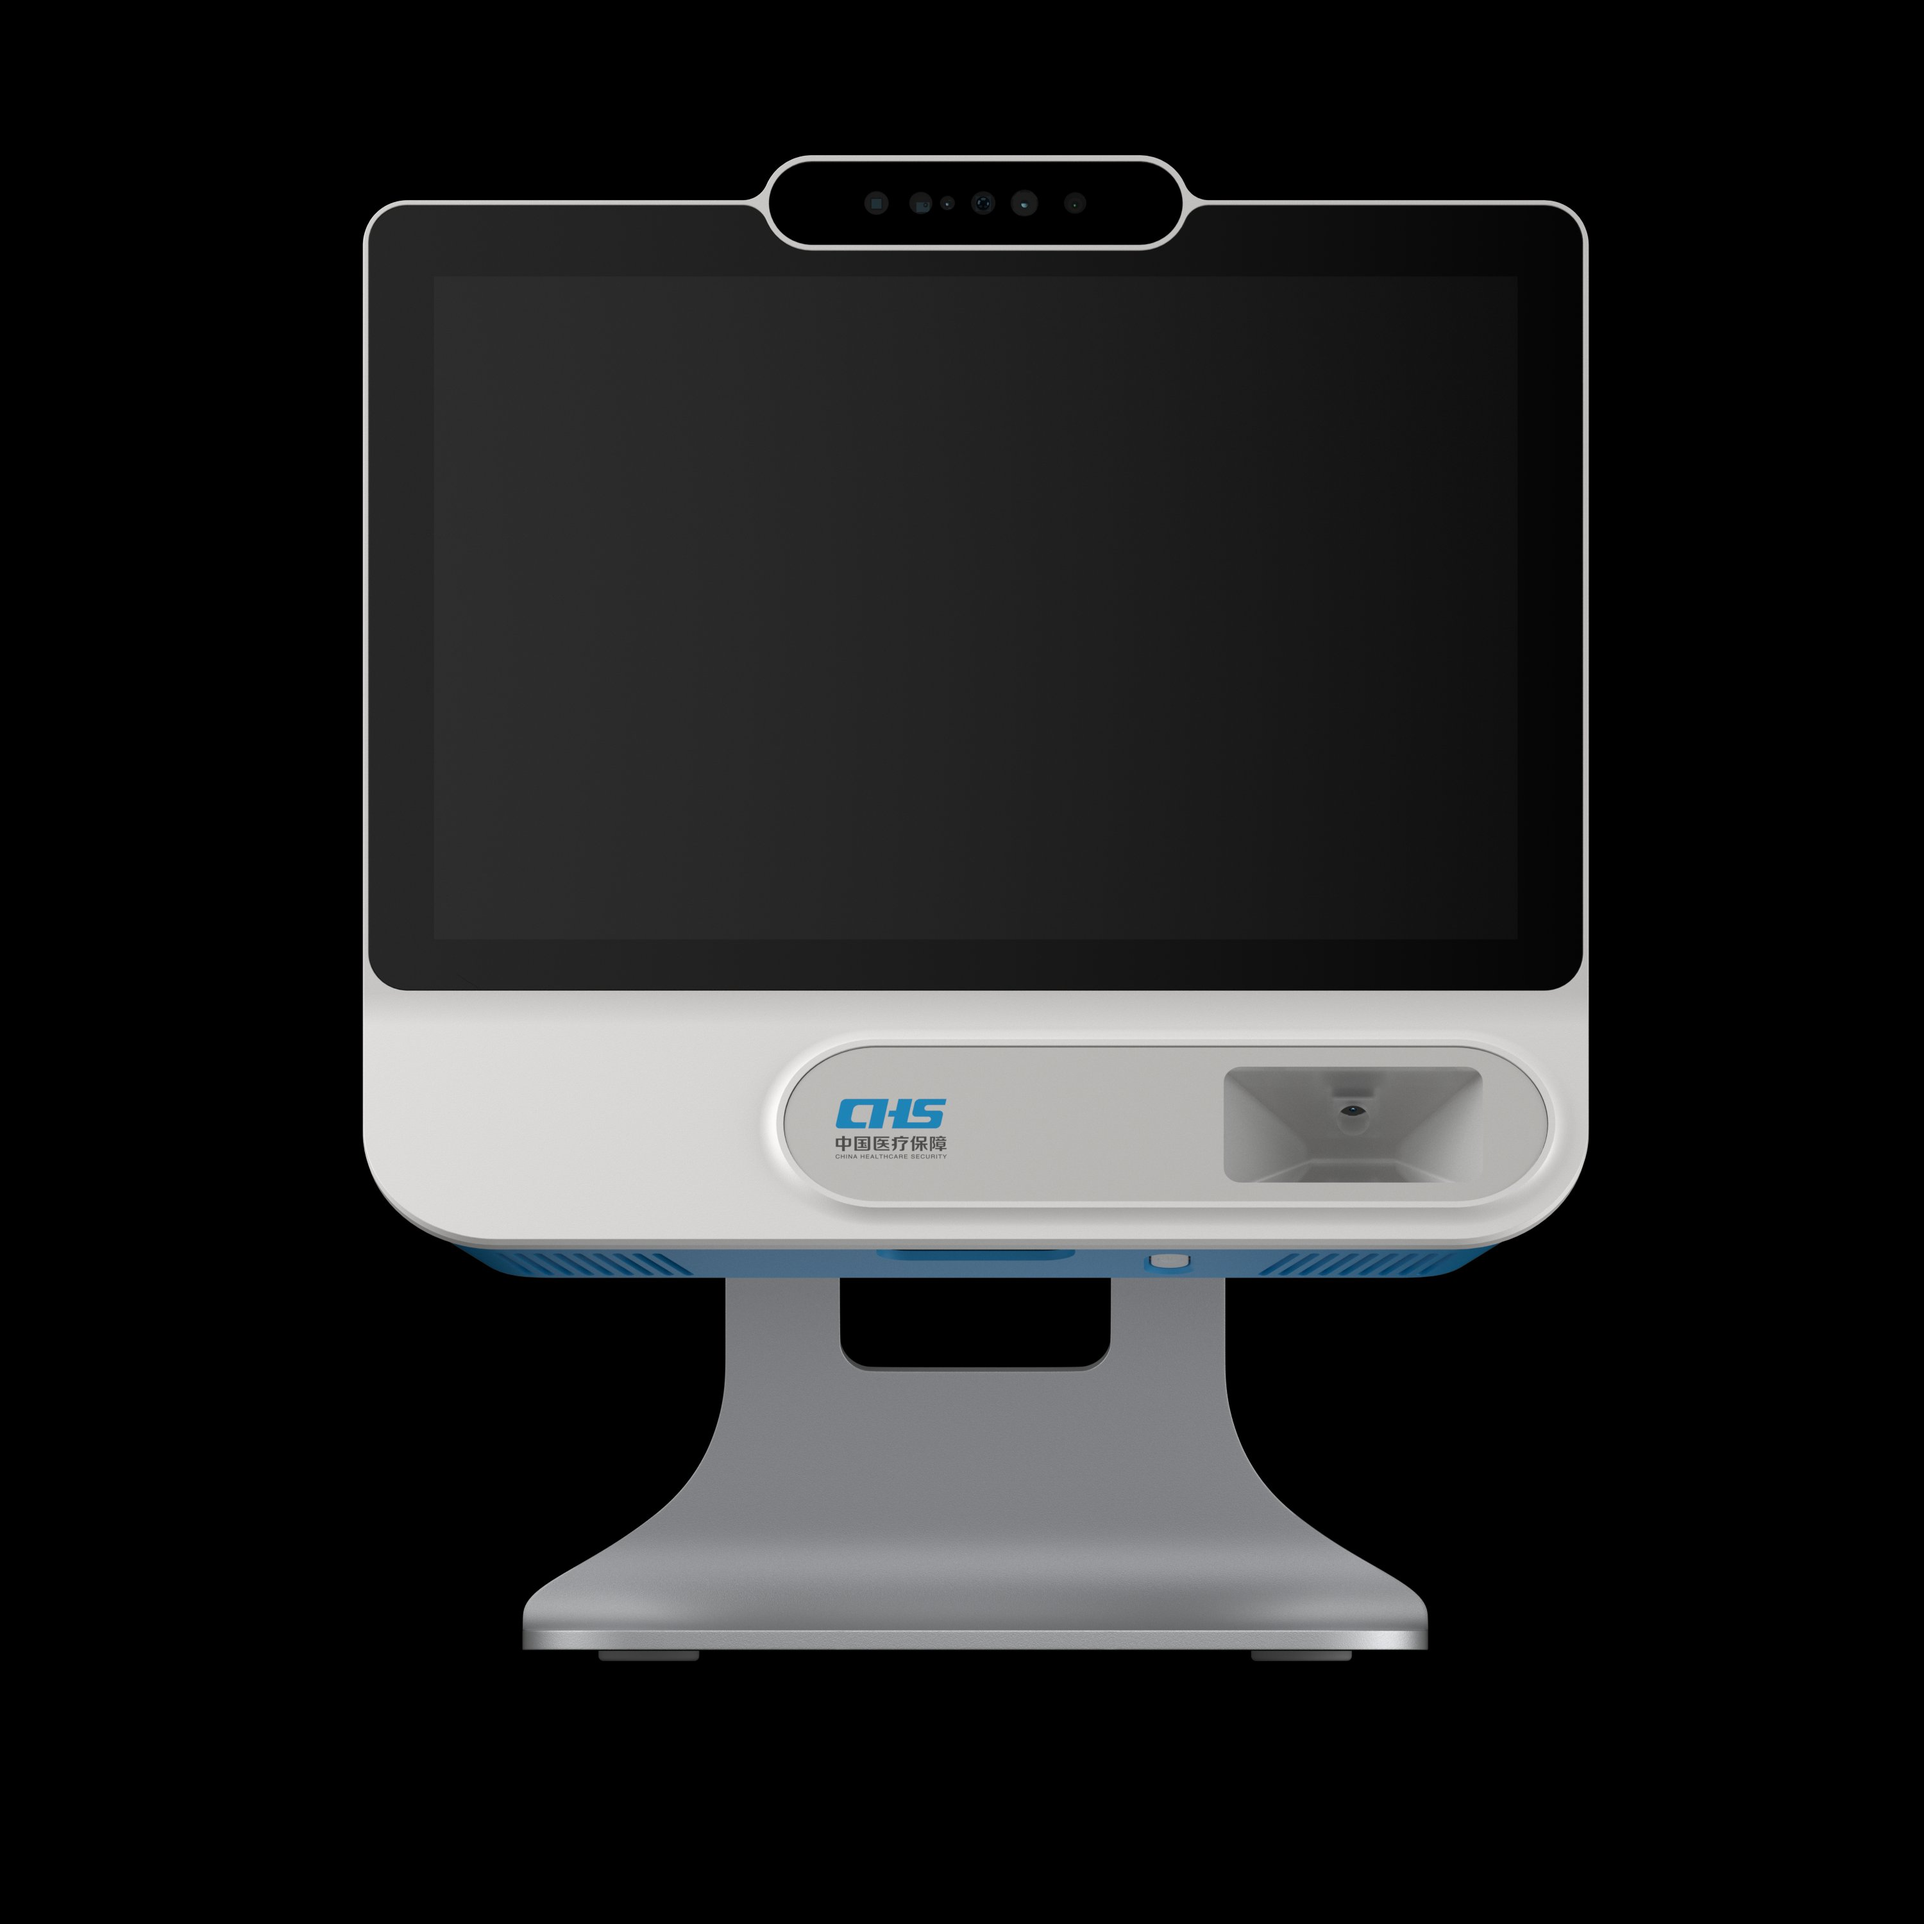
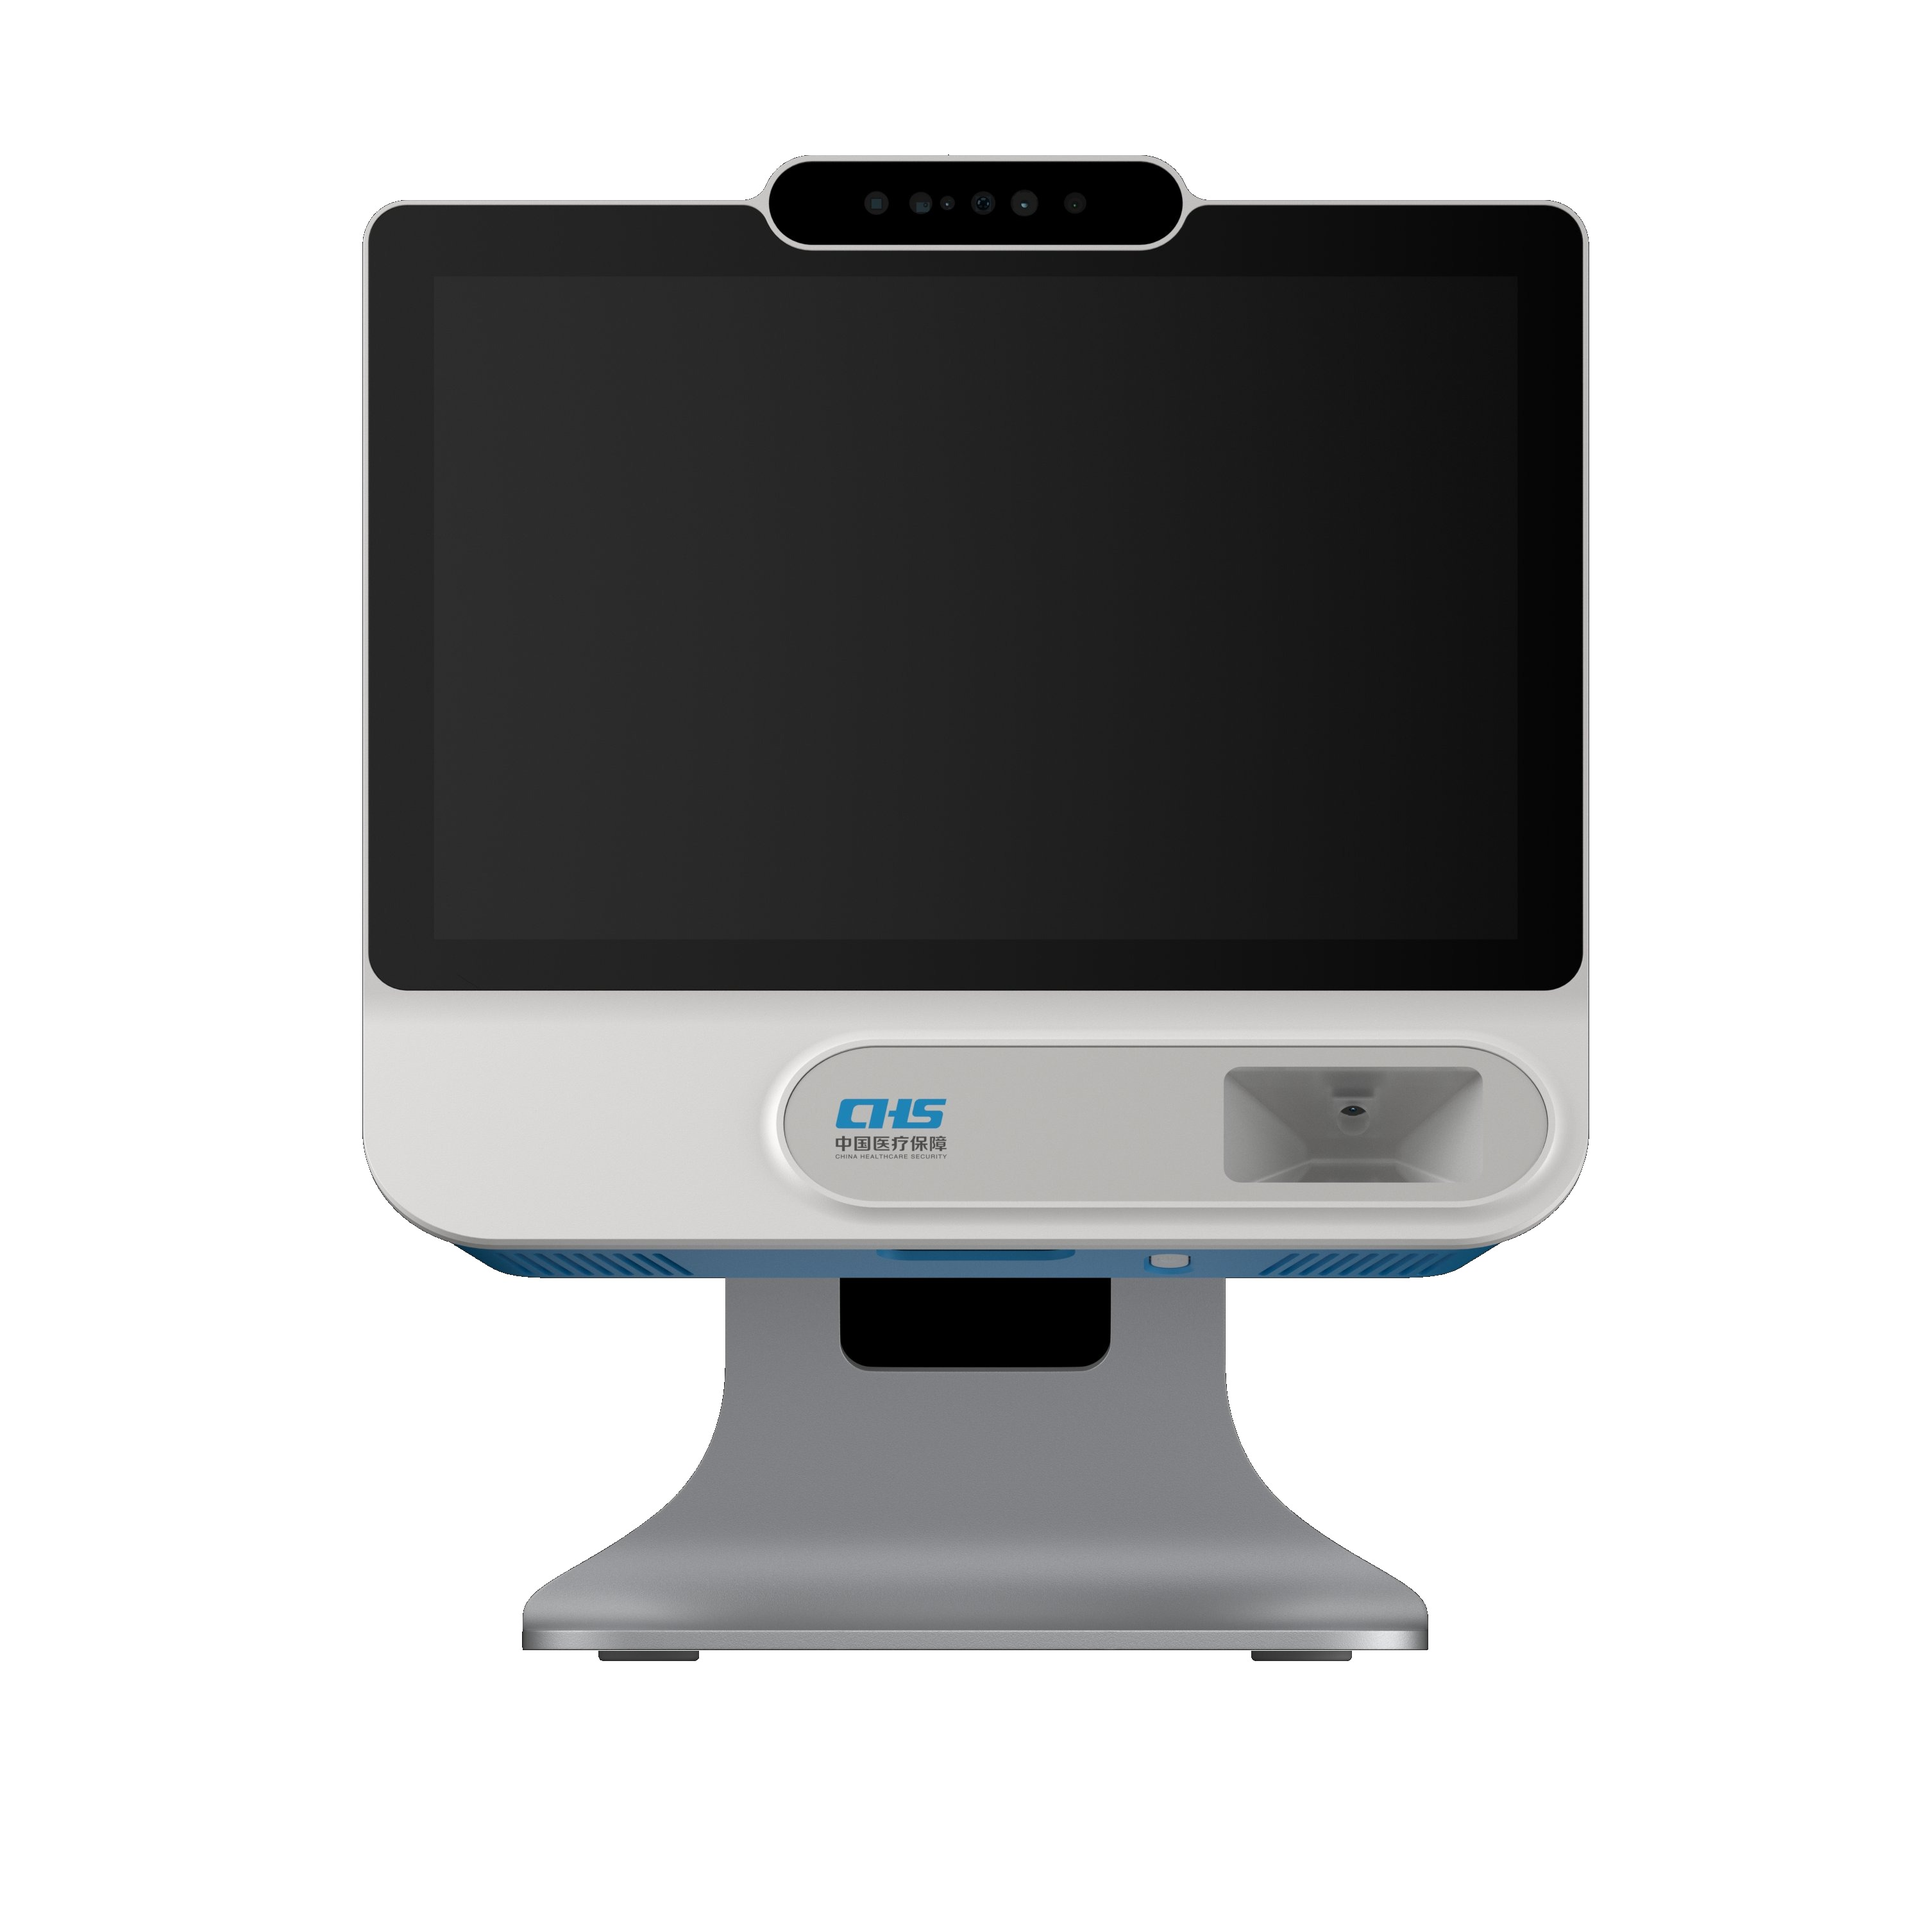
feat: add image background fix script and update product images
Added a Python script to fix image backgrounds and updated product images.

diff --git a/scripts/fixbg.py b/scripts/fixbg.py
@@ -1,0 +1,21 @@
+from PIL import Image, ImageDraw
+
+def fix(src, dst):
+    im = Image.open(src).convert("RGB")
+    w, h = im.size
+    # 从四角与四边中点洪泛填充：把与边缘相连的黑色背景替换为白色
+    # 熄屏黑屏被白色边框包围，与边缘不连通，故不受影响
+    seeds = [
+        (0, 0), (w - 1, 0), (0, h - 1), (w - 1, h - 1),
+        (w // 2, 0), (w // 2, h - 1), (0, h // 2), (w - 1, h // 2),
+        (2, 2), (w - 3, 2), (2, h - 3), (w - 3, h - 3),
+    ]
+    for s in seeds:
+        ImageDraw.floodfill(im, s, (255, 255, 255), thresh=70)
+    im.save(dst, "JPEG", quality=92)
+    print("saved", dst, im.size)
+
+base = "/vercel/share/v0-project/public/images/products/"
+fix(base + "t6711-front-side-raw.jpg", base + "t6711-front-side.jpg")
+fix(base + "t6711-front.jpg", base + "t6711-front.jpg")
+fix(base + "t6711-back.jpg", base + "t6711-back.jpg")
